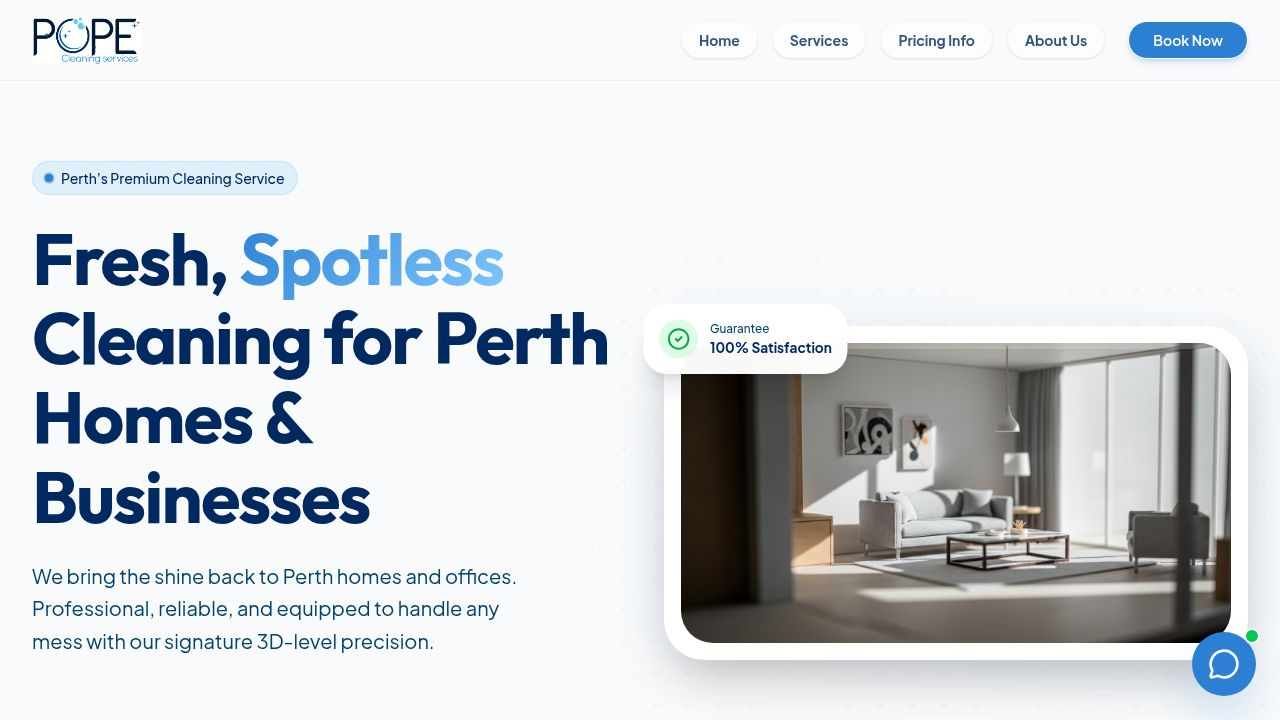
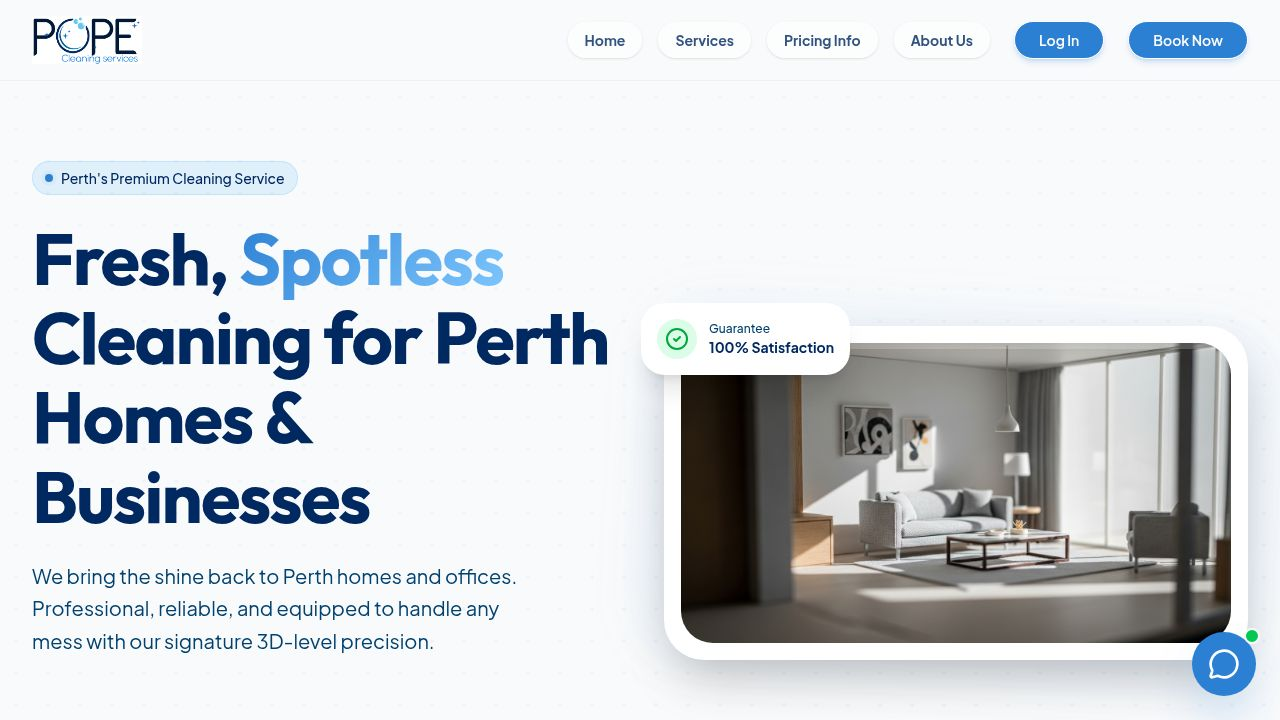
Align login button design and position with booking button
Update navbar to style the Login button like the Book Now button and place it to the left of Book Now.

Replit-Commit-Author: Agent
Replit-Commit-Session-Id: 123a902b-0695-4780-9a6c-a1a9cc376589
Replit-Commit-Checkpoint-Type: full_checkpoint
Replit-Commit-Event-Id: ebf2987c-58f5-4e27-a5fd-9cccbc1bcda7
Replit-Commit-Screenshot-Url: https://storage.googleapis.com/screenshot-production-us-central1/b344bfab-6f91-421f-94c6-48e3dd77e76f/123a902b-0695-4780-9a6c-a1a9cc376589/BSzNxQa
Replit-Helium-Checkpoint-Created: true

diff --git a/client/src/components/layout/navbar.tsx b/client/src/components/layout/navbar.tsx
@@ -31,15 +31,14 @@ export function Navbar() {
           <Link href="/services"><a className="text-sm font-bold text-secondary/80 bg-white/40 backdrop-blur-md border border-white/60 px-4 py-2 rounded-full shadow-sm hover:shadow-md hover:bg-white hover:text-primary hover:scale-105 hover:border-primary/20 transition-all cursor-pointer">Services</a></Link>
           <Link href="/pricing"><a className="text-sm font-bold text-secondary/80 bg-white/40 backdrop-blur-md border border-white/60 px-4 py-2 rounded-full shadow-sm hover:shadow-md hover:bg-white hover:text-primary hover:scale-105 hover:border-primary/20 transition-all cursor-pointer">Pricing Info</a></Link>
           <Link href="/about"><a className="text-sm font-bold text-secondary/80 bg-white/40 backdrop-blur-md border border-white/60 px-4 py-2 rounded-full shadow-sm hover:shadow-md hover:bg-white hover:text-primary hover:scale-105 hover:border-primary/20 transition-all cursor-pointer">About Us</a></Link>
+          <Link href="/auth/login">
+            <Button className="rounded-full px-6 py-2 h-auto font-semibold shadow-md shadow-primary/20 hover:shadow-primary/40 transition-all cursor-pointer ml-2">
+              Log In
+            </Button>
+          </Link>
           <Link href="/book">
             <Button className="rounded-full px-6 py-2 h-auto font-semibold shadow-md shadow-primary/20 hover:shadow-primary/40 transition-all cursor-pointer ml-2">
               Book Now
-            </Button>
-          </Link>
-          <div className="hidden lg:block w-px h-6 bg-border/60 mx-2"></div>
-          <Link href="/auth/login">
-            <Button variant="outline" className="hidden lg:flex rounded-full px-5 py-2 h-auto font-semibold border-primary/20 text-primary hover:bg-primary/5 transition-all cursor-pointer">
-              Log In
             </Button>
           </Link>
         </div>
